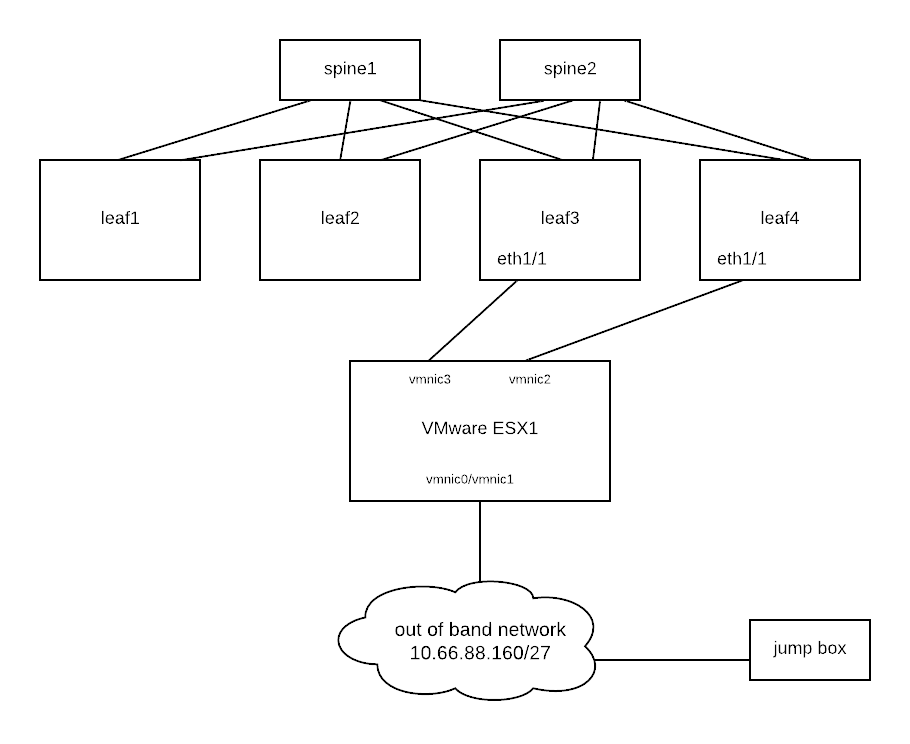
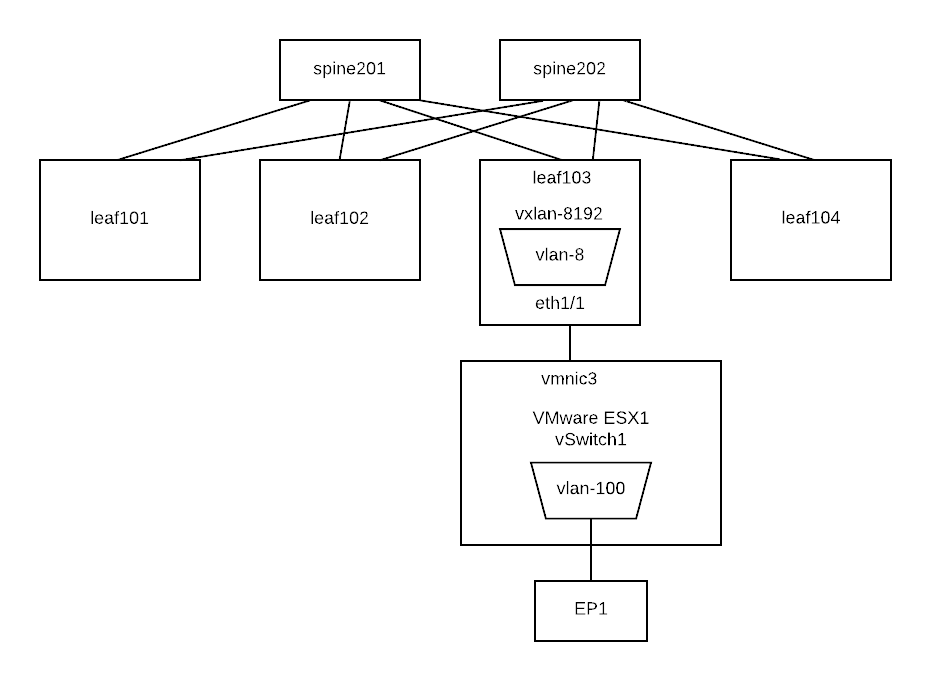
Added more info on EPG section

diff --git a/source/epg.rst b/source/epg.rst
@@ -1,0 +1,92 @@
+End Point Group
+===============
+
+EPG classification can be based on:
+
+* Access (untagged)  = Access VLAN
+* Source IP address
+* Trunk = Trunk
+* Access (802.1p) = Native VLAN
+* NVGRE
+* VXLAN
+
+.. image:: epg-classification.jpg
+   :width: 600px
+   :alt: VLAN classification
+
+In this lab, we will use VLAN as an EPG classifier. Therefore, we will need to create a VLAN pool
+
+VLAN Pool Creation
+------------------
+
+When you create a VLAN pool, it is a good practice to set allocation mode to dynamic.
+
+.. image:: create-vlan-pool-allocation-mode.png
+   :width: 600px
+   :alt: VLAN allocation mode
+
+Then when you add an encap block, you can choose either static or dynamic.
+In that way, you will have flexibility to add both dynamic and static encap blocks.
+
+
+.. image:: create-vlan-pool-encap-blocks.png
+   :width: 600px
+   :alt: VLAN allocation mode
+
+
+
+Static binding
+--------------
+
+We can statically classify EPG by assigning an encap vlan on leaf ports.
+In below example, port eth1/1 on leaf103 is statically bound with encap vlan 100.
+That means any incoming traffic with vlan tag 100 is classified as EPG "tshoot-epg".
+
+.. image:: static-bind.png
+   :width: 600px
+   :alt: Static binding
+
+.. code-block:: console
+
+	leaf103# show endpoint
+	Legend:
+	 s - arp              O - peer-attached    a - local-aged       S - static          
+	 V - vpc-attached     p - peer-aged        M - span             L - local           
+	 B - bounce           H - vtep            
+	+-----------------------------------+---------------+-----------------+--------------+-------------+
+	      VLAN/                           Encap           MAC Address       MAC Info/       Interface
+	      Domain                          VLAN            IP Address        IP Info
+	+-----------------------------------+---------------+-----------------+--------------+-------------+
+	8                                          vlan-100    0050.5696.609a L                      eth1/1
+	tshoot:tshoot-vrf                          vlan-100     192.168.1.101 L                      eth1/1
+	overlay-1                                                  10.0.32.92 L                         lo0
+	3/overlay-1                          vxlan-16777209    d8b1.9061.1e65 L                     eth1/46
+
+
+	leaf103# show vlan id 8
+
+	 VLAN Name                             Status    Ports                           
+	 ---- -------------------------------- --------- ------------------------------- 
+	 8    tshoot:tshoot-ap:tshoot-epg      active    Eth1/1 
+
+	 VLAN Type  Vlan-mode  
+	 ---- ----- ---------- 
+	 8    enet  CE         
+
+	 leaf103# show system internal epm vlan 8  
+
+
+	+----------+---------+-----------------+----------+------+----------+-----------
+	   VLAN ID    Type      Access Encap     Fabric    H/W id  BD VLAN    Endpoint  
+	                        (Type Value)     Encap                          Count   
+	+----------+---------+-----------------+----------+------+----------+-----------
+	 8            FD vlan 802.1Q        100 8192       7      7          1         
+
+
+In above example, encap vlan-100 has been mapped to ACI platform independent (PI) vlan 8 which is mapped to vxlan-8192.
+
+Reference
+---------
+#. CNA Data Center DCICT 200-155 Official Cert Guide by Ahmed Afrose et. al.
+
+ 

diff --git a/source/index.rst b/source/index.rst
@@ -22,7 +22,7 @@ Table of Contents
 
    fabric-discovery
    access-policy
-   lab2
+   epg
    contract
    l3out
 
